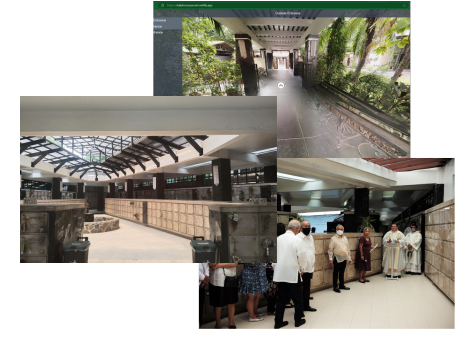
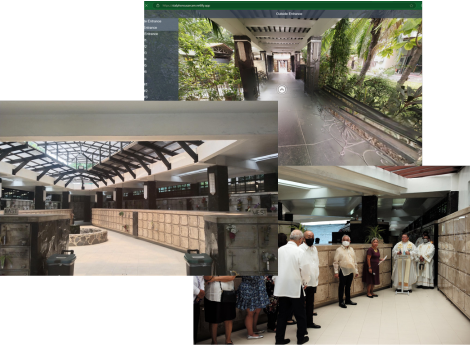
AS

diff --git a/django_project/templates/pages/Customer_Home.html b/django_project/templates/pages/Customer_Home.html
@@ -40,8 +40,8 @@
                     <ul class="nav navbar-nav">
                         <li><a href="#" class="scroll-top">Home</a></li>
                         <li><a href="#" class="scroll-link" data-id="about">About Us</a></li>
-                        <li><a href="#" class="scroll-link" data-id="portfolio">Portfolio</a></li>
-                        <li><a href="#" class="scroll-link" data-id="blog">Blog</a></li>
+                        <li><a href="#" class="scroll-link" data-id="portfolio">Gallery </a></li>
+                        <li><a href="#" class="scroll-link" data-id="blog">Memorials</a></li>
                         <li><a href="#" class="scroll-link" data-id="contact">Contact Us</a></li>
                     </ul>
                 </div>
@@ -166,12 +166,12 @@
                         <ul>                        
                             <li>
                                 <div class="white-button">
-                                    <a href="#" class="scroll-link" data-id="portfolio">Discover More</a>
+                                    <a href="https://stalphonsusarcam.netlify.app/" target="_blank">Virtual Tour</a>
                                 </div>
                             </li>
                             <li>
                                 <div class="primary-button">
-                                    <a href="#">Purchase Now</a>
+                                    <a href="#">Avail Now</a>
                                 </div>
                             </li>
                         </ul>
@@ -193,7 +193,7 @@
                 <div class="row">
                     <div class="col-md-12">
                         <div class="section-heading">
-                            <h4>Our Portfolio</h4>
+                            <h4>Our Gallery</h4>
                             <div class="line-dec"></div>
                         </div>
                     </div>

diff --git a/django_project/static/css/tooplate-style.css b/django_project/static/css/tooplate-style.css
@@ -323,6 +323,7 @@ ul.cd-hero-slider {
 #what-we-do .right-image images {
 	width: 100%;
 	overflow: hidden;
+	margin-left: -130px;
 }
 
 #what-we-do h4 {
